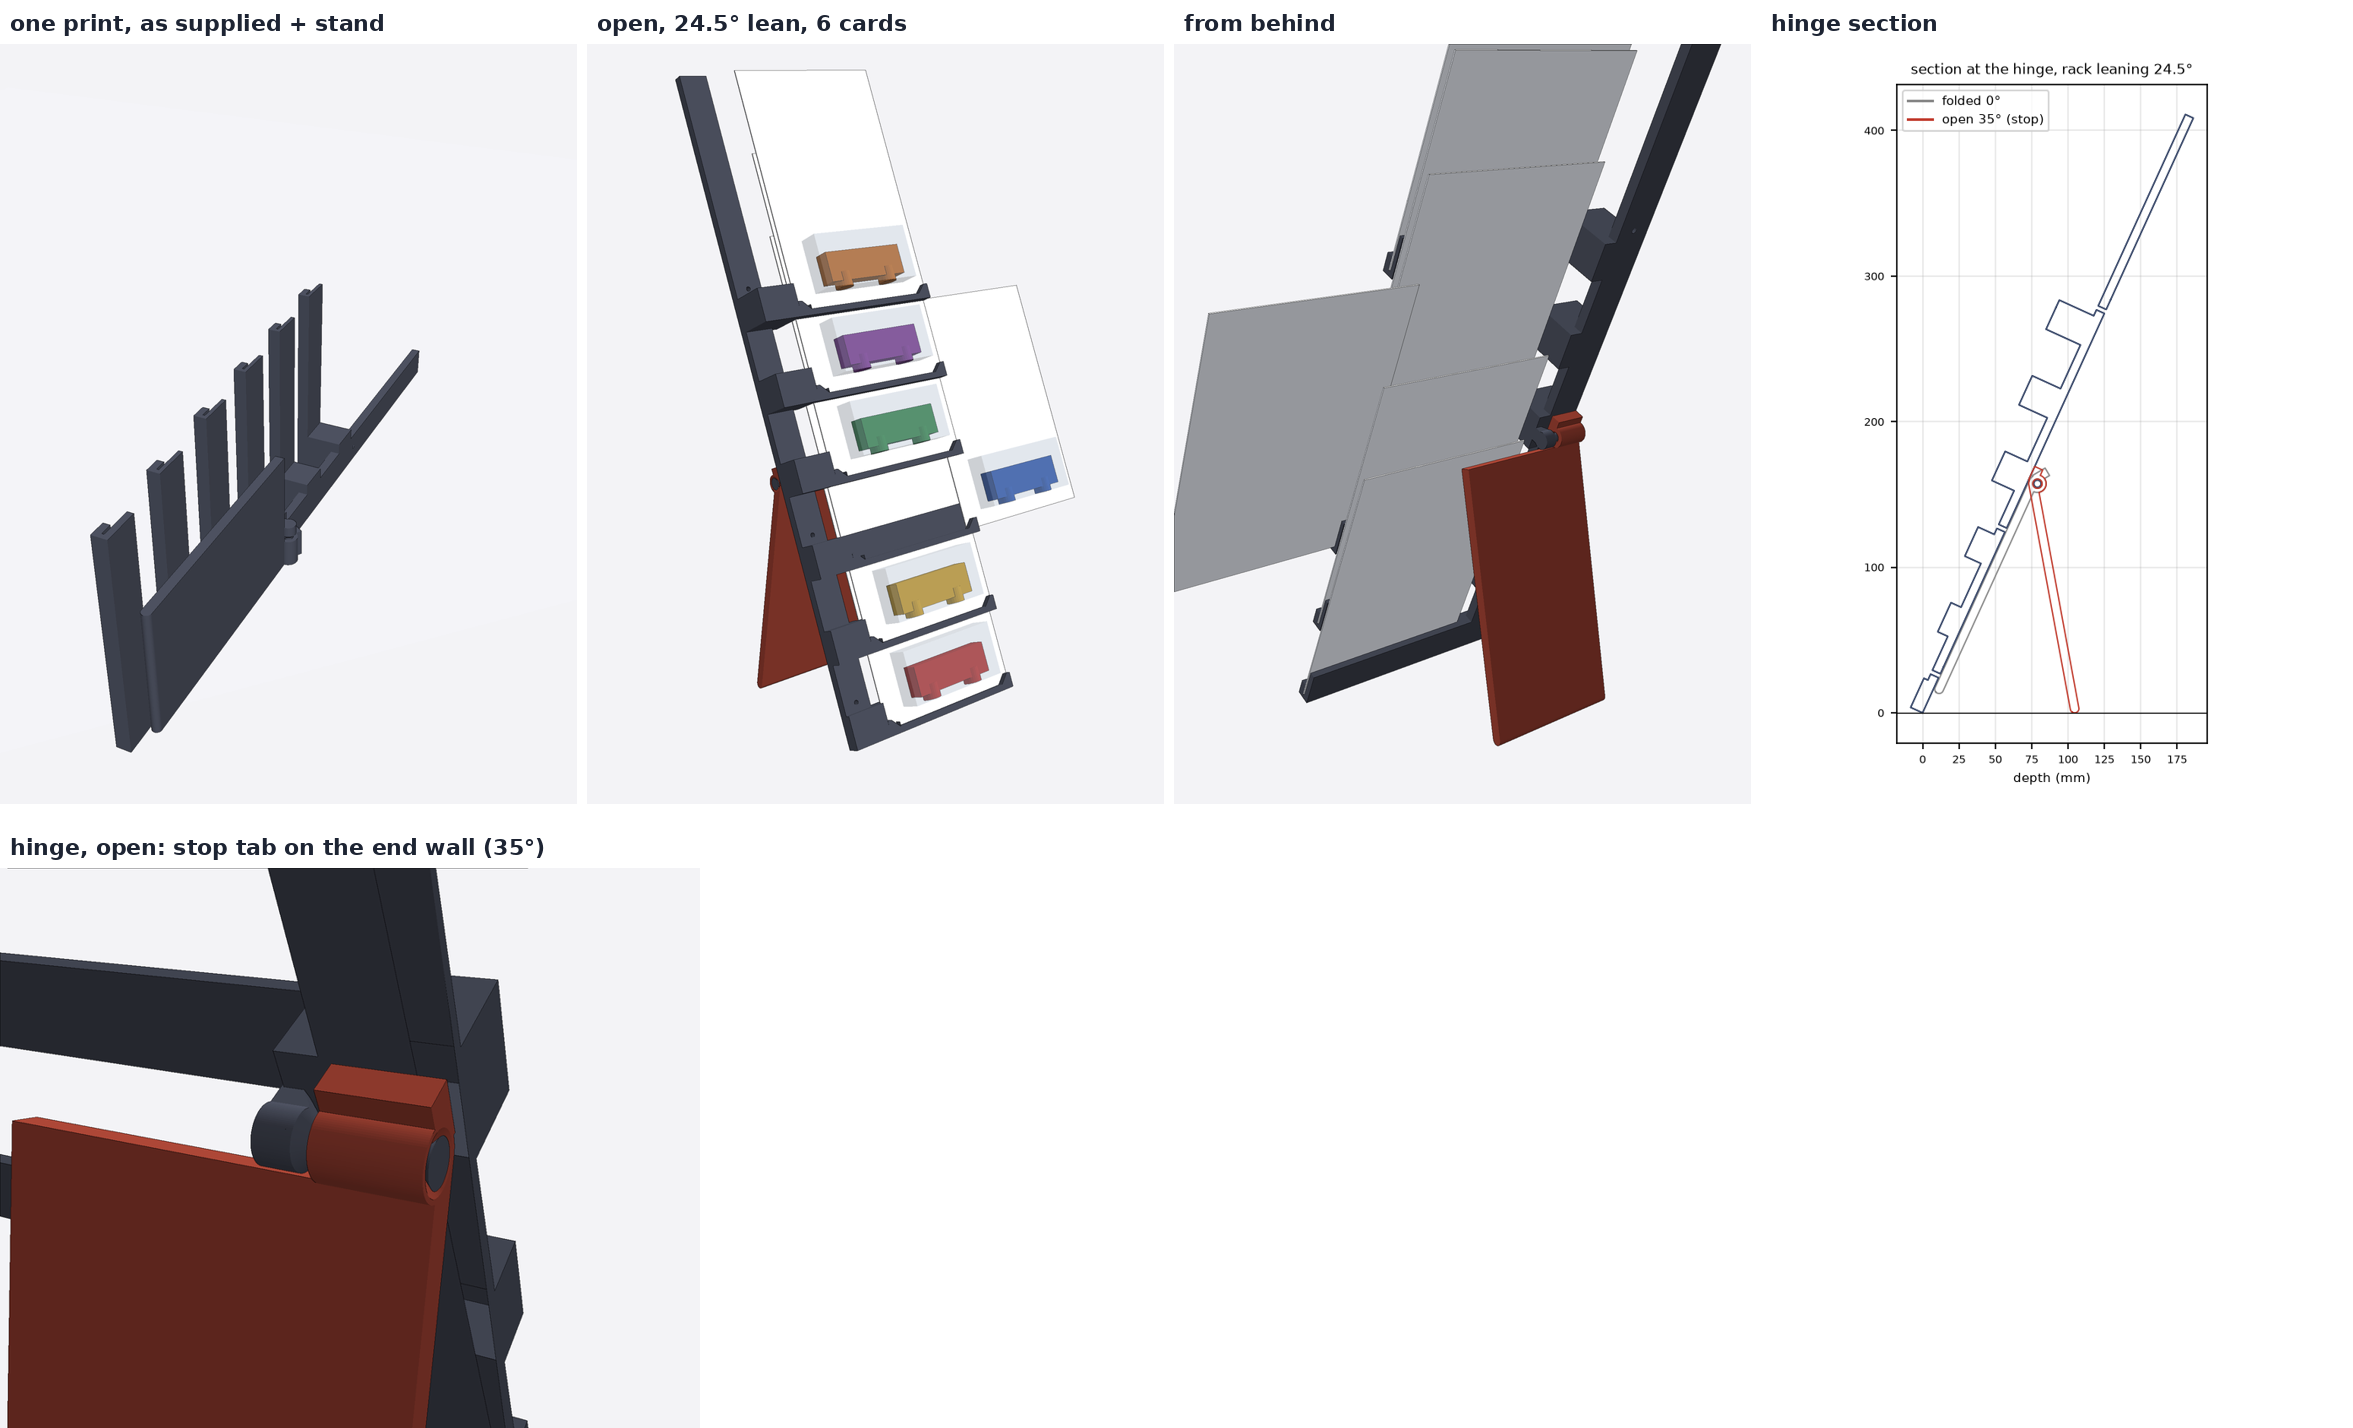
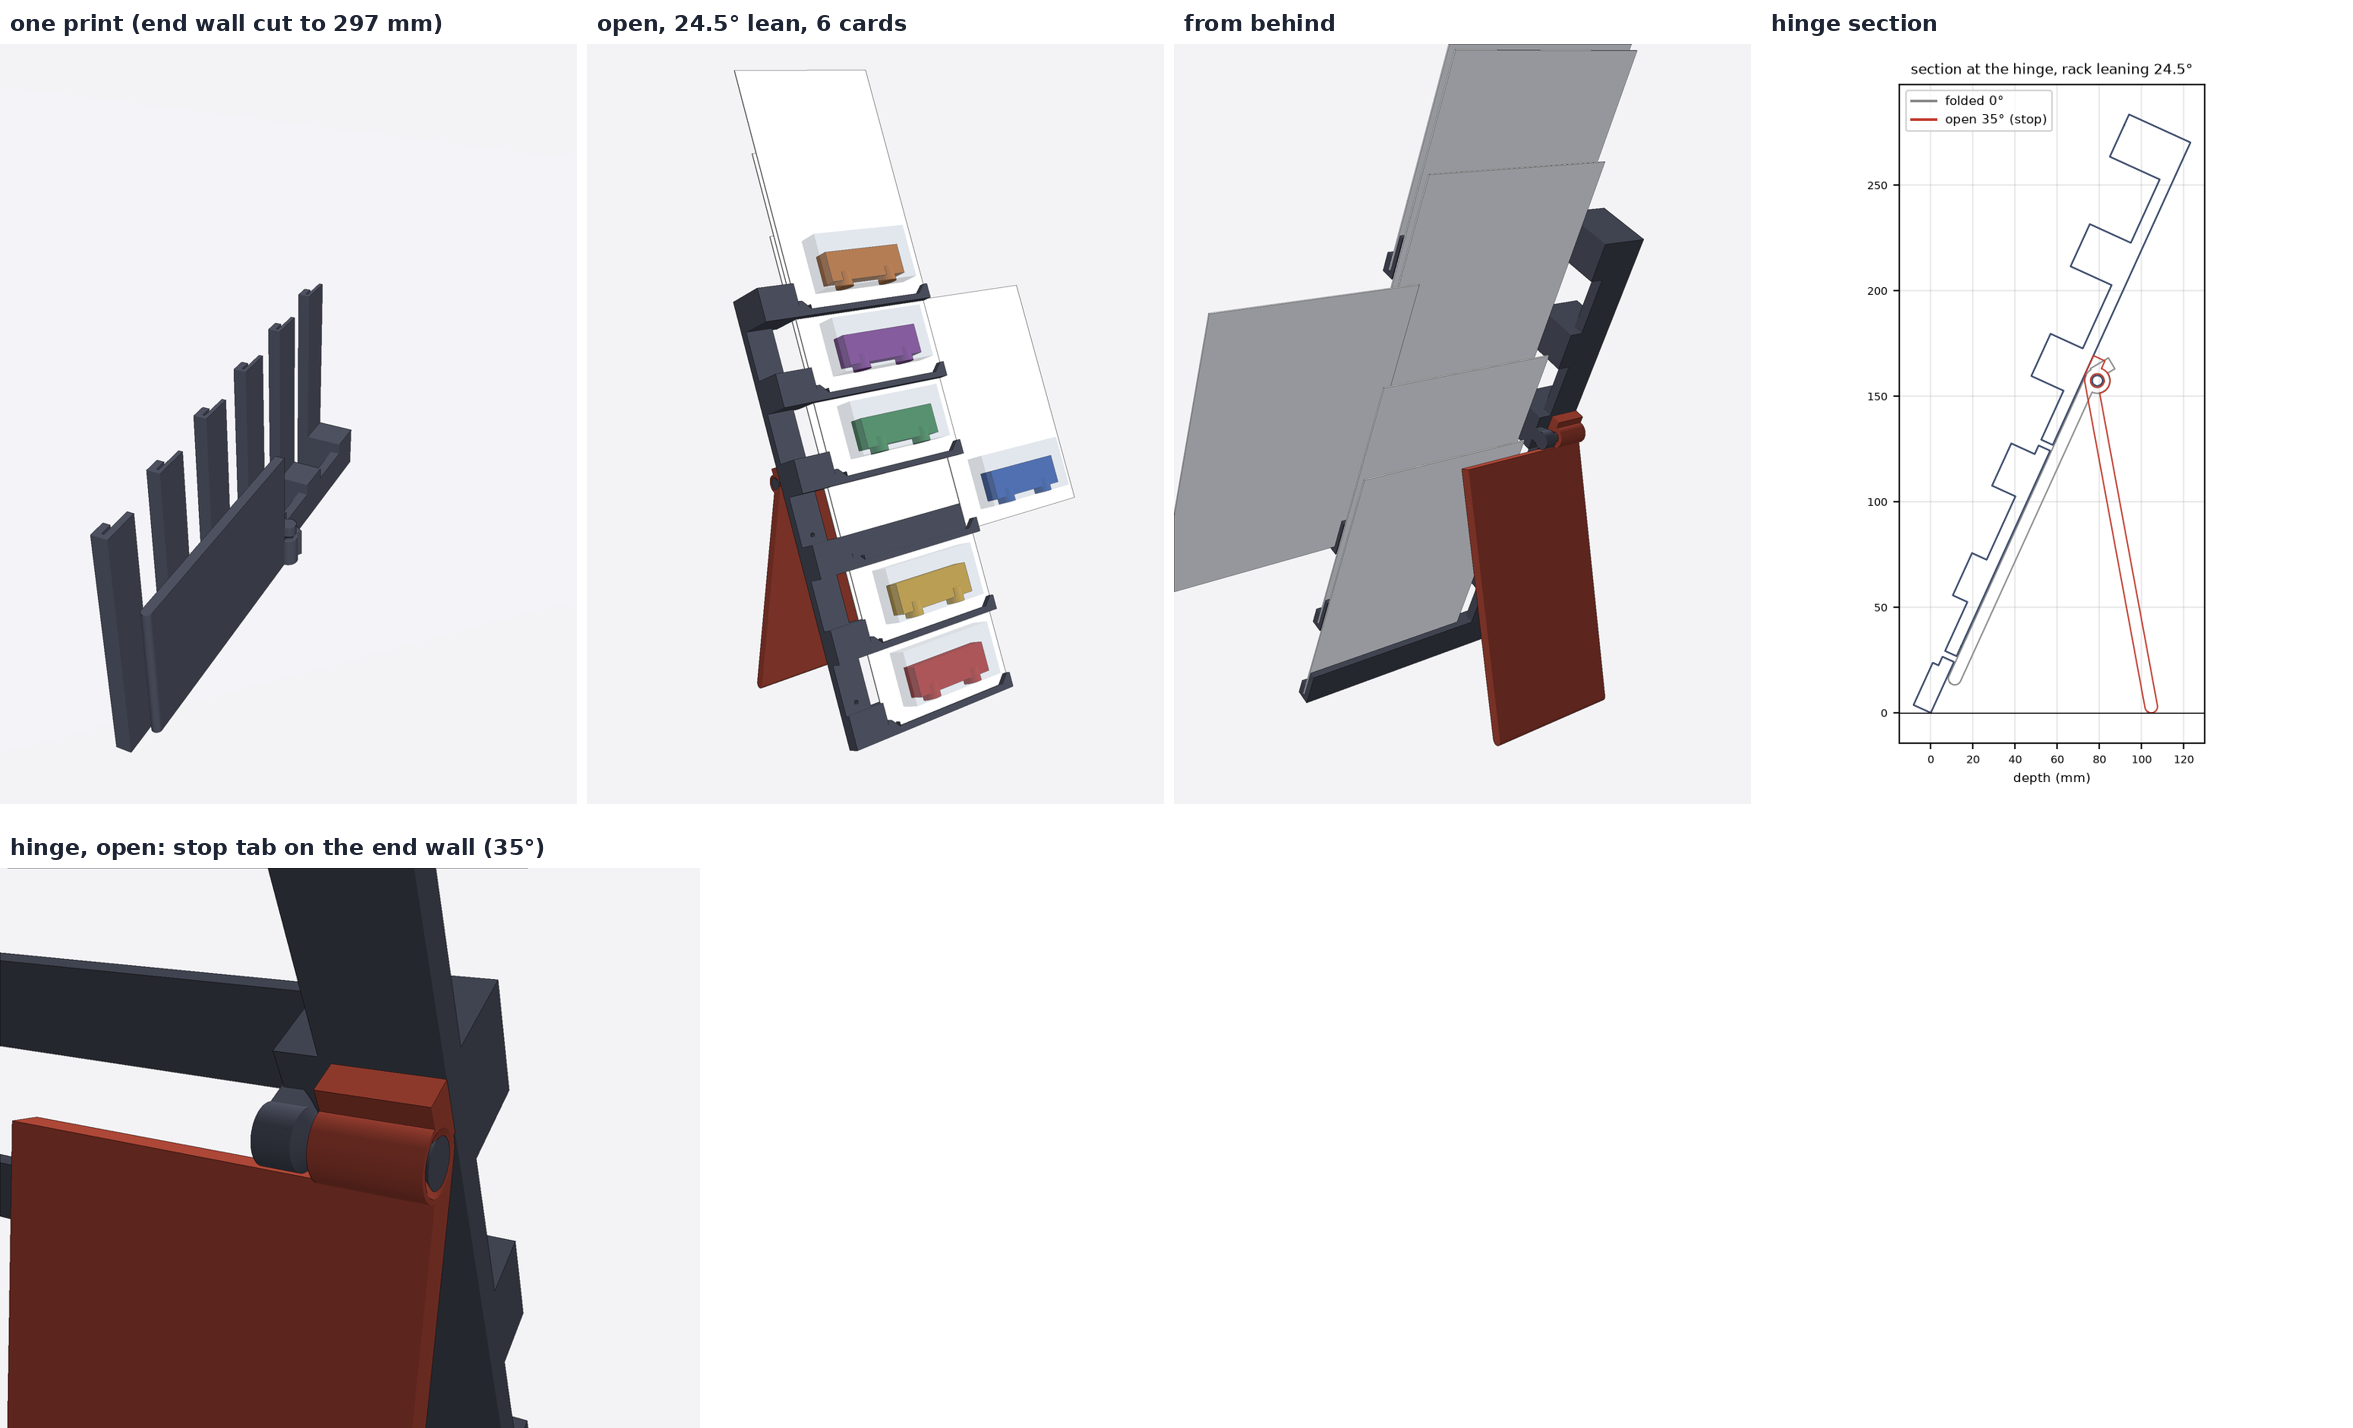
Fixed rack + kickstand: trim end wall to the display height (297 mm)
- End wall cut flush with the top of the 6th ledge (449 -> 297 mm); the
  rack below is unchanged. Saves ~18 cm3 of print.
- Re-verified: gaps, sweep, stop at 35, tip 21.5/14.6/12.5 deg loaded,
  watertight.

Claude-Session: https://claude.ai/code/session_01FiYQCZWyB2tcRXgXW4cx9g

diff --git a/3d-models/build_right_fixed_rack_kickstand.py b/3d-models/build_right_fixed_rack_kickstand.py
@@ -1,4 +1,4 @@
-"""Fixed-rack kickstand v12: the user's right_fixed_rack_PRINT.stl, unchanged, + ONE print-in-place hinge and a
+"""Fixed-rack kickstand v12: the user's right_fixed_rack_PRINT.stl (end wall trimmed to the display height, 297 mm) + ONE print-in-place hinge and a
 solid kickstand strip on the back of its end wall. Single print, on its side (end wall on the bed, as supplied).
 Rack frame: x = along the ledges from the end wall (print height), y = up the rack, z = forward from the back face.
 Hinge (as v11): leg barrel on the bed, the rack's pin rises from the bed through it (0.7 mm gap) into a rack barrel
@@ -24,8 +24,13 @@ L_Z = (-GAP - LT, -GAP); FOOT_R = LT/2; ZM = (L_Z[0] + L_Z[1])/2
 HEAD = (4.0, 1.5)
 TAG = 'fixed_rack'
 
+YTOP = float(os.environ.get('KS_YTOP', 297.0))     # end wall trimmed to the top of the 6th ledge (display height)
+
 def rack():
-    m = trimesh.load(SRC); m.apply_transform(TO_RACK); return m
+    m = trimesh.load(SRC); m.apply_transform(TO_RACK)
+    if YTOP < m.bounds[1][1]:
+        m = trimesh.boolean.intersection([m, box(bounds=[[-1, -1, -1], [200, YTOP, 50]])], engine='manifold')
+    return m
 
 def xcyl(r, y, z, xa, xb, sec=96):
     c = cylinder(radius=r, height=xb - xa, sections=sec)

diff --git a/3d-models/render_right_fixed_rack_kickstand.py b/3d-models/render_right_fixed_rack_kickstand.py
@@ -36,7 +36,7 @@ ax.set_title(f'section at the hinge, rack leaning {E.ALPHA:g}°', fontsize=8); a
 plt.tight_layout(); plt.savefig('_ks12_section.png'); plt.close()
 f = ImageFont.truetype('/usr/share/fonts/truetype/dejavu/DejaVuSans-Bold.ttf', 22)
 fs = ['_ks12_print.png', '_ks12_front.png', '_ks12_back.png', '_ks12_section.png']
-caps = ['one print, as supplied + stand', f'open, {E.ALPHA:g}° lean, 6 cards', 'from behind', 'hinge section']
+caps = ['one print (end wall cut to 297 mm)', f'open, {E.ALPHA:g}° lean, 6 cards', 'from behind', 'hinge section']
 ims = [Image.open(x).convert('RGB') for x in fs]; hh = 760; ims = [im.resize((int(im.width*hh/im.height), hh)) for im in ims]
 row = Image.new('RGB', (sum(i.width for i in ims) + 10*len(ims), hh + 44), 'white'); x = 0; d = ImageDraw.Draw(row)
 for im, c in zip(ims, caps): row.paste(im, (x, 44)); d.text((x + 10, 10), c, fill=(29, 36, 51), font=f); x += im.width + 10

diff --git a/3d-models/verify_right_fixed_rack_kickstand.py b/3d-models/verify_right_fixed_rack_kickstand.py
@@ -8,7 +8,7 @@ P = trimesh.load('_ks12_rack.stl'); L = trimesh.load('_ks12_leg.stl'); R0 = E.ra
 mv = lambda m, M: trimesh.Trimesh(trimesh.transform_points(m.vertices, M), m.faces)
 r = dict(hinge_y=E.YH, lean_deg=E.ALPHA, open_deg=E.PSI)
 # the supplied rack is untouched: it lies entirely inside the new rack body, and nothing was cut from it
-r['original_rack_volume_cm3'] = round(R0.volume/1000, 2)
+r['original_rack_volume_cm3'] = round(trimesh.load(E.SRC).volume/1000, 2); r['rack_after_trim_cm3'] = round(R0.volume/1000, 2); r['end_wall_trimmed_to_y_mm'] = E.YTOP
 r['original_rack_kept_cm3'] = round(E.I(R0, P)/1000, 2)
 r['added_hinge_cm3'] = round((P.volume - R0.volume)/1000, 2)
 # print-in-place clearance
